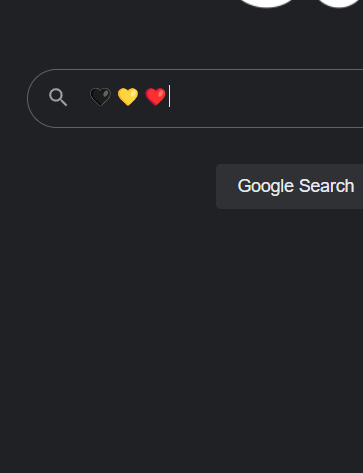
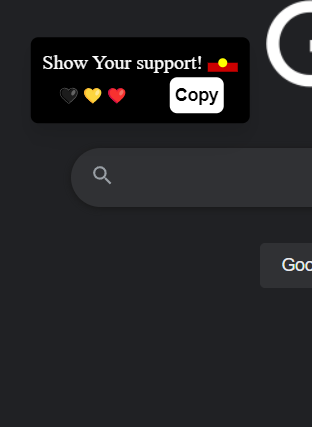
updated tutorial

diff --git a/README.md b/README.md
@@ -1,30 +1,37 @@
-# Support Our Mob 🖤💛❤
+# Support Our Mob 🖤💛❤ - Chrome Extension
 
 Support Our Mob, is a Chrome extension that allows you to right click on any input to display an option to show mob your support by instantly adding these emojis: 🖤💛❤
+
+Powered by [Chrome Extensions](https://developer.chrome.com/docs/extensions), [Vite](https://vitejs.dev/), [React](https://react.dev/) & [Tailwind](https://tailwindcss.com/)
 
 ## Tutorial
 
 #### Right click on any text input
 
-![](/assets/tutorial_1.png)
+![Tutorial 1](/assets/tutorial_1.png)
 
-#### Click "Support Our Mob" to instantly add "🖤💛❤" into the selected input
+#### Click Copy to instantly copy "🖤💛❤" to your clipboard
 
-![](/assets/tutorial_2.png)
+![Tutorial 2](/assets/tutorial_2.png)
+
+#### Paste into the text input with Ctrl/CMD+V or right clicking then "Paste"
+
+![Tutorial 3](/assets/tutorial_3.png)
 
 ## Technical Tutorial
 
-1) npm i --legacy-peer-deps (will fix this at a later date)
+1. npm i --legacy-peer-deps (will fix this at a later date)
 
-2) npm run build
+2. npm run build
 
-3) **On Your Chromium Based Browser:** Extension > Load unpacked > locate "dist" (folder built via npm run build) > reload the web page you want to use it on
+3. **On Your Chromium Based Browser:** Extension > Load unpacked > locate "dist" (folder built via npm run build) > reload the web page you want to use it on
 
 enjoy c):^)
-
 
 ### Acknowledgements
 
 <hr>
 
 [Support Our Mob by Devon Crebbin](https://github.com/dcrebbin)
+
+[Vite Web Extension with React & Tailwind by @JohnBra](https://github.com/JohnBra/web-extension.git)
